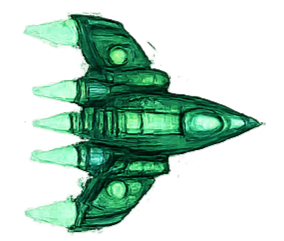
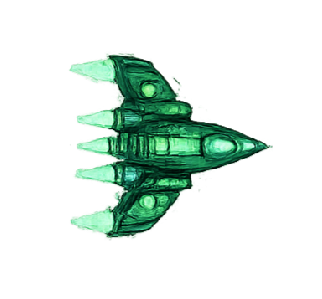
feat(hud): marcos por nivel de mejora + sonidos de compra (v1.13.0)
- Marco por tier: el marco de cada habilidad cambia según el nivel comprado
  (marco = max(1, nivel); la 1ª mejora no cambia, recién la 2ª). 5 marcos
  (marcos1..5mejora.png), escalados para renderizar al mismo tamaño.
- Sonidos: mejora.mp3 al comprar, particulasInsuficientes.mp3 sin saldo
  (config.js + Game._registrarSonidos + comprarMejoraSeccion).
- Assets: enimigo1 actualizado, gameOver.png nuevo, puntuacion2 eliminada.
- docs: README/PENDIENTES/package.json a v1.13.0.

diff --git a/src/game/ui/PixiHUD.js b/src/game/ui/PixiHUD.js
@@ -91,6 +91,7 @@ export class PixiHUD {
         // rectángulo con un CUADRADO en la punta izquierda donde va el icono.
         // Se escala para que el cuadrado mida ~70px; el resto es para la mejora.
         this._texturaMarco = null;
+        this._texturasMarcos = null;                       // 5 marcos por tier de mejora (max(1,nivel))
         this._marcoQ = 85;                                 // lado del cuadrado del icono (+10%)
         this._marcoEscala = 85 / 688;                      // escala (cuadrado ~85)
         this._marcoAncho = Math.round(2307 * (85 / 688));  // ancho del marco (~285)
@@ -976,6 +977,40 @@ export class PixiHUD {
     }
 
     /**
+     * Devuelve la textura de marco según el NIVEL de mejora de la habilidad:
+     * marco = max(1, nivel), o sea 0-1 mejoras → marco 1, 2 → marco 2, ...,
+     * 5 → marco 5 (la 1ª mejora no cambia el marco, recién la 2ª). Los cuadrantes
+     * sin mejora usan siempre el marco 1.
+     * @private
+     */
+    _marcoTexturaTier(g) {
+        const marcos = this._texturasMarcos;
+        if (!marcos || !marcos.length) return this._texturaMarco || null;
+        let nivel = 0;
+        if (g && g.mejoraSeccion !== undefined && this.game && this.game.mejoras) {
+            for (let i = 0; i < 5; i++) {
+                if ((this.game.mejoras[g.mejoraSeccion + i] || 0) >= 1) nivel++;
+            }
+        }
+        const tier = Math.max(1, nivel);
+        return marcos[Math.min(tier, marcos.length) - 1] || marcos[0];
+    }
+
+    /**
+     * Actualiza el marco de un cuadrante si cambió su tier (se compró una mejora).
+     * Recalcula la escala porque cada marco tiene dimensiones algo distintas.
+     * @private
+     */
+    _actualizarMarco(g) {
+        if (!g || !g.frameSprite || g.mejoraSeccion === undefined) return;
+        const tex = this._marcoTexturaTier(g);
+        if (!tex || g.frameSprite.texture === tex) return;
+        g.frameSprite.texture = tex;
+        const sx = this._marcoAncho / tex.width, sy = this._marcoQ / tex.height;
+        g.frameSprite.scale.set(g._espejo ? -sx : sx, sy);
+    }
+
+    /**
      * Dibuja un cuadrante usando la imagen de marco (marcos1mejora) y centra su
      * icono en el cuadrado de la punta. En la columna derecha el marco se espeja
      * (cuadrado del lado del borde derecho). Si el marco aún no cargó, solo ubica
@@ -993,25 +1028,29 @@ export class PixiHUD {
 
         const Q = this._marcoQ;      // lado del cuadrado del icono
         const W = this._marcoAncho;  // ancho total del marco
-        const s = this._marcoEscala;
+        g._espejo = espejo;          // se usa al cambiar el marco de tier
 
-        // El CUADRADO del icono queda siempre en local [0, Q] (en el borde de
-        // pantalla). El RECTÁNGULO del marco se va FUERA de pantalla, para que
-        // más adelante entren ahí las mejoras.
-        if (this._texturaMarco) {
+        // El CUADRADO del icono queda en local [0, Q] (en el borde de pantalla).
+        // El RECTÁNGULO del marco se va hacia el centro (ahí van las mejoras).
+        // La textura del marco depende del NIVEL de mejora de la habilidad (tier).
+        // Cada marco tiene dims algo distintas, así que se escala para renderizar
+        // siempre W×Q (escala no uniforme; deja todo alineado).
+        const marcoTex = this._marcoTexturaTier(g);
+        if (marcoTex) {
             if (!g.frameSprite) {
-                g.frameSprite = new PIXI.Sprite(this._texturaMarco);
+                g.frameSprite = new PIXI.Sprite(marcoTex);
                 g.frameSprite.anchor.set(0, 0);
                 g.frameSprite.zIndex = 0;
             }
-            g.frameSprite.texture = this._texturaMarco;
+            g.frameSprite.texture = marcoTex;
+            const sx = W / marcoTex.width, sy = Q / marcoTex.height;
             if (espejo) {
                 // Columna izquierda: marco espejado; el rectángulo se va por la izquierda.
-                g.frameSprite.scale.set(-s, s);
+                g.frameSprite.scale.set(-sx, sy);
                 g.frameSprite.position.set(Q, y);
             } else {
                 // Columna derecha: marco normal; el rectángulo se va por la derecha.
-                g.frameSprite.scale.set(s, s);
+                g.frameSprite.scale.set(sx, sy);
                 g.frameSprite.position.set(0, y);
             }
             contenedor.addChild(g.frameSprite);
@@ -1257,6 +1296,7 @@ export class PixiHUD {
             if (!g) continue;
             if (g.precioText) this._refrescarPrecio(g);
             if (g.pips) this._refrescarPips(g);
+            this._actualizarMarco(g);   // cambia el marco según el nivel comprado
             if (g.upgradeSprite && g.mejoraSeccion !== undefined) {
                 const precio = this._precioMejora(g.mejoraSeccion);
                 const comprable = (precio !== null) && particulas >= precio;
@@ -1292,13 +1332,14 @@ export class PixiHUD {
      */
     async _cargarTexturaMarco() {
         try {
-            const tex = await PIXI.Assets.load('assets/marcos1mejora.png');
-            if (tex) {
-                this._texturaMarco = tex;
-                this._posicionarIconosLaterales();
-            }
+            // 5 marcos por tier de mejora (marcos1..5mejora.png).
+            const rutas = [1, 2, 3, 4, 5].map(n => `assets/marcos${n}mejora.png`);
+            const texs = await Promise.all(rutas.map(r => PIXI.Assets.load(r)));
+            this._texturasMarcos = texs;
+            this._texturaMarco = texs[0];   // marco base (tier 1)
+            this._posicionarIconosLaterales();
         } catch (e) {
-            console.error('[PixiHUD] No se pudo cargar marcos1mejora.png:', e);
+            console.error('[PixiHUD] No se pudieron cargar los marcos de mejora:', e);
         }
     }
 

diff --git a/src/game/sistemas/Game.js b/src/game/sistemas/Game.js
@@ -583,10 +583,14 @@ const [naveTexture, asteroideTexture, fondoTexture, proyectilTexture, explocion1
         }
         if (idx < 0) return 'maxeada';
         const costo = this.costosMejoras[idx] || 0;
-        if ((this.particulasCapturadas || 0) < costo) return 'sinSaldo';
+        if ((this.particulasCapturadas || 0) < costo) {
+            if (this.gestorSonido) this.gestorSonido.reproducir('particulasInsuficientes');
+            return 'sinSaldo';
+        }
         this.particulasCapturadas -= costo;
         this.mejoras[idx] = 1;
         this.aplicarMejoras();
+        if (this.gestorSonido) this.gestorSonido.reproducir('mejora');
         return 'ok';
     }
 
@@ -827,6 +831,8 @@ _crearParticulaBoidFuera() {
         this.gestorSonido.cargar('destruccionNave', 'assets/audio/destruccion_nave.mp3', V.destruccionNave);
         this.gestorSonido.cargar('recibirImpacto', 'assets/audio/recibir impacto.mp3', V.recibirImpacto);
         this.gestorSonido.cargar('particulaBoid', 'assets/audio/particula_boid.mp3', V.particulaBoid); // suena en cada captura (con throttle)
+        this.gestorSonido.cargar('mejora', 'assets/audio/mejora.mp3', V.mejora); // comprar una mejora
+        this.gestorSonido.cargar('particulasInsuficientes', 'assets/audio/particulasInsuficientes.mp3', V.particulasInsuficientes); // sin saldo
 
         // --- Música de fondo (en bucle) ---
         this.gestorSonido.cargar('musicaMenu', 'assets/audio/musica_menu.mp3', V.musicaMenu, 'musica');

diff --git a/src/config.js b/src/config.js
@@ -179,6 +179,8 @@ export const CONFIG = {
             // --- Otros SFX ---
             particulaBoid: 0.45,        // capturar partícula (suena en cada una, con throttle)
             click: 0.5,                 // botones del menú
+            mejora: 0.6,                // comprar una mejora (clic en el icono de mejora)
+            particulasInsuficientes: 0.5, // intentar comprar sin partículas suficientes
 
             // --- Música de fondo (en bucle) ---
             musicaMenu: 0.5,            // menú principal

diff --git a/README.md b/README.md
@@ -1,7 +1,7 @@
 # 🎮 Jugando en el Espacio
 
 [![GitHub Pages](https://img.shields.io/badge/Jugar-Aquí-0044CC?style=for-the-badge)](https://wackxion.github.io/proyecto-de-PVJ1-Jugando-en-el-Espacio-/)
-[![Versión](https://img.shields.io/badge/Versión-v1.11.0-FFA500?style=for-the-badge)](https://github.com/wackxion/proyecto-de-PVJ1-Jugando-en-el-Espacio-/releases/tag/v1.11.0)
+[![Versión](https://img.shields.io/badge/Versión-v1.13.0-FFA500?style=for-the-badge)](https://github.com/wackxion/proyecto-de-PVJ1-Jugando-en-el-Espacio-/releases/tag/v1.13.0)
 
 ---
 
@@ -361,7 +361,19 @@ main.js
 
 ## 📜 Historial de Versiones
 
-### v1.11.0 (Actual)
+### v1.13.0 (Actual)
+> **Marcos por nivel de mejora + sonidos de compra**
+
+- 🖼 **Marco que sube de tier**: el marco de cada habilidad cambia según cuántas mejoras compraste (5 marcos). La 1ª mejora no cambia el marco, recién la 2ª (`marco = max(1, nivel)`)
+- 🔊 **Sonidos de mejora**: al comprar suena `mejora.mp3`; al intentar sin partículas suficientes suena `particulasInsuficientes.mp3`
+
+### v1.12.0
+> **Botones del menú y ventanas con imágenes PNG (estilo tinta)**
+
+- 🎨 Menú, tutorial, Game Over y Top 5 usan botones-imagen (JUGAR, TUTORIAL, VOLVER, etc.)
+- ⚖ Ajustes de tamaño de proyectiles y de la fuente de precios en los marcos
+
+### v1.11.0
 > **Sistema de mejoras funcional (compra desde el HUD) + iluminación de iconos**
 
 - 🛒 **Compra de mejoras desde los paneles laterales**: clic en el icono de mejora (upgreate) de una habilidad compra el próximo nivel con partículas Boid y **prende el chip** correspondiente. Chips = niveles comprados

diff --git a/documentacion/PENDIENTES.md b/documentacion/PENDIENTES.md
@@ -1,7 +1,14 @@
 # Pendientes - Jugando en el Espacio
 
 **Última actualización:** 08/07/2026  
-**Versión:** v1.12.0 (ACTUAL)
+**Versión:** v1.13.0 (ACTUAL)
+
+---
+
+## ✅ Completado v1.13.0 - Marcos por nivel de mejora + sonidos de compra
+
+- **Marco por tier de mejora** (`PixiHUD._marcoTexturaTier`, `_actualizarMarco`; assets `marcos1..5mejora.png`): el marco de cada habilidad cambia según cuántas mejoras compraste. `marco = max(1, nivel)`, o sea 0-1 mejoras → marco 1, 2 → marco 2, ..., 5 → marco 5 (la 1ª mejora NO cambia el marco, recién la 2ª). Cada marco tiene dims algo distintas, así que se escala (no uniforme) para renderizar siempre al mismo tamaño y quedar alineado con el panel de chips. Las habilidades sin mejora usan siempre el marco 1.
+- **Sonidos de compra** (`config.js` → `AUDIO.VOLUMENES.mejora`/`particulasInsuficientes`; `Game._registrarSonidos`, `Game.comprarMejoraSeccion`): al comprar una mejora suena `mejora.mp3`; al intentar comprar sin partículas suficientes suena `particulasInsuficientes.mp3`.
 
 ---
 
